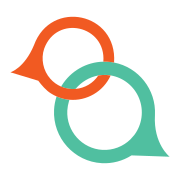
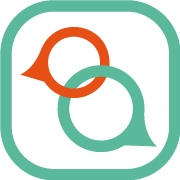
Add info.html and it's assets Adjust CSS to it Add info translation in cc.js Remake manifest thumbnails

diff --git a/info.html b/info.html
@@ -1,0 +1,136 @@
+<!DOCTYPE html>
+<html lang="en">
+
+<head>
+	<meta charset="UTF-8">
+	<meta http-equiv="X-UA-Compatible" content="IE=edge">
+	<meta name="viewport" content="width=device-width, initial-scale=1.0">
+	<title>Crossover Info</title>
+	<link rel="stylesheet" href="layouts.css">
+</head>
+
+<body>
+
+	<svg style="display: none;" fill="none" xmlns="http://www.w3.org/2000/svg">
+		<symbol id='back' viewBox="0 0 43 35" ">
+		<path d=" M41.231 15.2558C39.9582 5.95148 31.3562 -0.54397 22.0958 0.728787C18.5408 1.21156 15.337 2.79153 12.7915 5.16149L0.107788 7.09257C0.107788 7.09257 6.33991 10.2964 7.56878 19.864C8.75376 28.3783 16.0392 34.5666 24.3779 34.5666C25.1679 34.5666 25.914 34.5227 26.704 34.391C27.1429 34.3471 27.5379 34.2593 27.9768 34.1716C33.7261 32.9427 38.2027 28.9489 40.2216 23.7262C40.2655 23.5945 40.3093 23.4629 40.3532 23.2873C40.7043 22.1462 41.0116 21.049 41.231 19.9957C41.231 19.9079 41.231 19.864 41.2749 19.7762C41.4504 18.3279 41.4504 16.7919 41.231 15.2558Z" fill="#D1D3D4" />
+		<path d="M31.4001 20.6538C27.7574 17.8889 24.4657 16.3967 21.1302 15.6945" stroke="#E65014" stroke-width="4.51311" stroke-miterlimit="9.978" />
+		<path d="M23.5001 7.66296L20.2963 23.8138L13.8447 14.0706L23.5001 7.66296Z" fill="#E65014" />
+		</symbol>
+		<symbol id="cclogo" viewBox="0 0 98 58">
+			<g clip-path="url(#clip0_690_2309)">
+				<path d="M12.1129 39.373C12.1772 39.3042 12.2554 39.25 12.3422 39.214C12.4289 39.1781 12.5223 39.1614 12.616 39.1648H13.9189C14 39.1706 14.0814 39.1588 14.1576 39.1301C14.2337 39.1014 14.3029 39.0565 14.3604 38.9986C14.4179 38.9406 14.4623 38.8708 14.4908 38.7939C14.5192 38.7171 14.531 38.635 14.5252 38.5532C14.5252 38.2018 14.2156 37.9806 13.7512 37.9806L12.616 37.9415C12.3642 37.9351 12.1137 37.9815 11.8805 38.0778C11.6474 38.1742 11.4366 38.3183 11.2615 38.5011C11.0798 38.678 10.9358 38.8904 10.8382 39.1254C10.7406 39.3603 10.6915 39.6128 10.694 39.8676V43.16C10.6915 43.4148 10.7406 43.6673 10.8382 43.9022C10.9358 44.1372 11.0798 44.3496 11.2615 44.5265C11.4359 44.711 11.6463 44.8572 11.8794 44.9557C12.1125 45.0543 12.3633 45.1031 12.616 45.0991H13.9189C14.293 45.0991 14.5252 44.8648 14.5252 44.4744C14.531 44.3926 14.5192 44.3105 14.4908 44.2337C14.4623 44.1568 14.4179 44.087 14.3604 44.0291C14.3029 43.9711 14.2337 43.9262 14.1576 43.8975C14.0814 43.8688 14 43.857 13.9189 43.8628H12.616C12.5223 43.8663 12.4289 43.8495 12.3422 43.8136C12.2554 43.7776 12.1772 43.7234 12.1129 43.6546C12.0475 43.5902 11.9956 43.5133 11.9601 43.4284C11.9247 43.3434 11.9064 43.2522 11.9065 43.16V39.8676C11.9064 39.7754 11.9247 39.6842 11.9601 39.5992C11.9956 39.5143 12.0475 39.4374 12.1129 39.373Z" fill="#939598" />
+				<path d="M19.2465 37.9415C19.1654 37.9357 19.0841 37.9476 19.0079 37.9763C18.9317 38.005 18.8626 38.0498 18.8051 38.1078C18.7476 38.1658 18.7031 38.2356 18.6747 38.3124C18.6462 38.3893 18.6345 38.4714 18.6403 38.5532V42.8347C18.6422 42.9701 18.6169 43.1045 18.5659 43.2297C18.5149 43.355 18.4393 43.4685 18.3436 43.5635C18.2489 43.6629 18.1344 43.741 18.0077 43.7926C17.881 43.8442 17.7448 43.8681 17.6083 43.8628C17.338 43.8628 17.0788 43.7545 16.8877 43.5616C16.6965 43.3688 16.5892 43.1074 16.5892 42.8347V38.5532C16.5949 38.4714 16.5832 38.3893 16.5547 38.3124C16.5263 38.2356 16.4818 38.1658 16.4244 38.1078C16.3669 38.0498 16.2977 38.005 16.2215 37.9763C16.1454 37.9476 16.064 37.9357 15.9829 37.9415C15.9008 37.9338 15.8179 37.9441 15.7402 37.9719C15.6624 37.9997 15.5916 38.0443 15.5327 38.1025C15.4737 38.1607 15.4281 38.2312 15.3989 38.309C15.3697 38.3869 15.3577 38.4702 15.3637 38.5532V42.8347C15.3639 43.2824 15.4956 43.72 15.7423 44.0922C15.9889 44.4644 16.3394 44.7545 16.7494 44.9258C17.1595 45.0971 17.6106 45.142 18.0459 45.0547C18.4812 44.9674 18.881 44.7519 19.1949 44.4354C19.4069 44.2279 19.5747 43.9789 19.6878 43.7036C19.8009 43.4283 19.8571 43.1326 19.8528 42.8347V38.5532C19.8586 38.4714 19.8468 38.3893 19.8184 38.3124C19.79 38.2356 19.7455 38.1658 19.688 38.1078C19.6305 38.0498 19.5614 38.005 19.4852 37.9763C19.409 37.9476 19.3276 37.9357 19.2465 37.9415Z" fill="#939598" />
+				<path d="M23.9163 43.8628H21.9168V38.5532C21.9168 38.1758 21.6846 37.9415 21.2976 37.9415C21.2165 37.9357 21.1351 37.9476 21.059 37.9763C20.9828 38.0049 20.9136 38.0498 20.8561 38.1078C20.7987 38.1658 20.7542 38.2356 20.7257 38.3124C20.6973 38.3893 20.6856 38.4714 20.6913 38.5532V44.4744C20.6913 44.8648 20.9235 45.0991 21.2976 45.0991H23.9163C24.2904 45.0991 24.5226 44.8648 24.5226 44.4744C24.5283 44.3926 24.5166 44.3105 24.4881 44.2336C24.4597 44.1568 24.4152 44.087 24.3577 44.029C24.3002 43.971 24.2311 43.9262 24.1549 43.8975C24.0788 43.8688 23.9974 43.857 23.9163 43.8628Z" fill="#939598" />
+				<path d="M28.4312 37.9415H25.1676C25.0068 37.9415 24.8525 38.006 24.7388 38.1207C24.6251 38.2354 24.5613 38.391 24.5613 38.5532C24.5613 38.7154 24.6251 38.871 24.7388 38.9857C24.8525 39.1004 25.0068 39.1648 25.1676 39.1648H26.1866V44.4744C26.1787 44.5584 26.1892 44.6432 26.2175 44.7227C26.2458 44.8021 26.2911 44.8743 26.3503 44.934C26.4095 44.9937 26.481 45.0394 26.5597 45.068C26.6385 45.0965 26.7225 45.1071 26.8058 45.0991C27.1799 45.0991 27.4121 44.8648 27.4121 44.4744V39.1648H28.4312C28.592 39.1648 28.7462 39.1004 28.8599 38.9857C28.9736 38.871 29.0375 38.7154 29.0375 38.5532C29.0375 38.391 28.9736 38.2354 28.8599 38.1207C28.7462 38.006 28.592 37.9415 28.4312 37.9415Z" fill="#939598" />
+				<path d="M33.7589 37.9415C33.6778 37.9357 33.5964 37.9476 33.5202 37.9763C33.4441 38.0049 33.3749 38.0498 33.3174 38.1078C33.2599 38.1658 33.2154 38.2356 33.187 38.3124C33.1586 38.3893 33.1468 38.4714 33.1526 38.5532V42.8347C33.1545 42.9701 33.1292 43.1045 33.0782 43.2297C33.0272 43.355 32.9516 43.4685 32.8559 43.5634C32.7612 43.6629 32.6468 43.741 32.52 43.7926C32.3933 43.8442 32.2572 43.8681 32.1206 43.8628C31.986 43.8679 31.8518 43.8438 31.7272 43.7922C31.6026 43.7406 31.4904 43.6626 31.3982 43.5634C31.3025 43.4685 31.2269 43.355 31.1759 43.2297C31.1249 43.1045 31.0996 42.9701 31.1015 42.8347V38.5532C31.1015 38.3909 31.0376 38.2354 30.9239 38.1207C30.8102 38.006 30.656 37.9415 30.4952 37.9415C30.3344 37.9415 30.1802 38.006 30.0665 38.1207C29.9528 38.2354 29.8889 38.3909 29.8889 38.5532V42.8347C29.8847 43.1326 29.9408 43.4283 30.054 43.7036C30.1671 43.9788 30.3348 44.2279 30.5468 44.4354C30.7541 44.6451 31.0004 44.8115 31.2716 44.925C31.5427 45.0386 31.8334 45.097 32.127 45.097C32.4206 45.097 32.7113 45.0386 32.9825 44.925C33.2537 44.8115 33.5 44.6451 33.7073 44.4354C33.9193 44.2279 34.087 43.9788 34.2001 43.7036C34.3133 43.4283 34.3694 43.1326 34.3652 42.8347V38.5532C34.3709 38.4714 34.3592 38.3893 34.3307 38.3124C34.3023 38.2356 34.2578 38.1658 34.2003 38.1078C34.1429 38.0498 34.0737 38.0049 33.9975 37.9763C33.9214 37.9476 33.84 37.9357 33.7589 37.9415Z" fill="#939598" />
+				<path d="M39.6928 40.1929C39.6945 39.8957 39.6375 39.601 39.5252 39.3263C39.4128 39.0515 39.2474 38.802 39.0384 38.5924C38.8295 38.3828 38.5812 38.2173 38.3082 38.1056C38.0352 37.9938 37.7428 37.9381 37.4482 37.9415H35.8228C35.7417 37.9357 35.6603 37.9476 35.5842 37.9763C35.508 38.0049 35.4388 38.0498 35.3813 38.1078C35.3239 38.1658 35.2794 38.2356 35.251 38.3124C35.2225 38.3893 35.2108 38.4714 35.2165 38.5532V44.4744C35.2165 44.8648 35.4487 45.0991 35.8228 45.0991C36.1969 45.0991 36.4291 44.8648 36.4291 44.4744V42.4573H37.3966L38.5318 44.7477C38.5733 44.8369 38.6356 44.9146 38.7134 44.9742C38.7911 45.0339 38.882 45.0737 38.9782 45.0903C39.0745 45.1069 39.1733 45.0998 39.2663 45.0696C39.3593 45.0394 39.4436 44.987 39.5122 44.9169C39.627 44.7986 39.6918 44.64 39.6928 44.4744C39.6897 44.3799 39.6678 44.2869 39.6283 44.2011L38.6092 42.171C39.3187 41.7806 39.6928 41.1039 39.6928 40.1929ZM38.4802 40.1929C38.4819 40.3301 38.4564 40.4663 38.4052 40.5934C38.3539 40.7205 38.278 40.8359 38.1818 40.933C38.0856 41.03 37.9712 41.1066 37.8452 41.1583C37.7192 41.21 37.5842 41.2357 37.4482 41.234H36.4291V39.1648H37.4482C37.5848 39.1595 37.7209 39.1834 37.8476 39.235C37.9744 39.2866 38.0888 39.3647 38.1835 39.4641C38.2792 39.5591 38.3548 39.6726 38.4058 39.7979C38.4568 39.9231 38.4821 40.0575 38.4802 40.1929Z" fill="#939598" />
+				<path d="M43.7562 43.8628H41.7567V41.7936H43.1112C43.272 41.7936 43.4262 41.7291 43.5399 41.6144C43.6536 41.4997 43.7175 41.3442 43.7175 41.1819C43.7175 41.0197 43.6536 40.8641 43.5399 40.7494C43.4262 40.6347 43.272 40.5703 43.1112 40.5703H41.7567V39.1648H43.7562C43.917 39.1648 44.0712 39.1004 44.1849 38.9857C44.2986 38.871 44.3625 38.7154 44.3625 38.5532C44.3625 38.3909 44.2986 38.2354 44.1849 38.1207C44.0712 38.006 43.917 37.9415 43.7562 37.9415H41.1504C41.0693 37.9357 40.988 37.9476 40.9118 37.9763C40.8356 38.0049 40.7665 38.0498 40.709 38.1078C40.6515 38.1658 40.607 38.2356 40.5786 38.3124C40.5501 38.3893 40.5384 38.4714 40.5441 38.5532V44.4744C40.5441 44.8648 40.7763 45.0991 41.1504 45.0991H43.7562C44.1303 45.0991 44.3625 44.8648 44.3625 44.4744C44.3682 44.3926 44.3565 44.3105 44.3281 44.2336C44.2996 44.1568 44.2552 44.087 44.1977 44.029C44.1402 43.971 44.071 43.9262 43.9949 43.8975C43.9187 43.8688 43.8373 43.857 43.7562 43.8628Z" fill="#939598" />
+				<path d="M1.50928 51.684C1.5783 51.6133 1.66066 51.5573 1.75151 51.5193C1.84236 51.4813 1.93983 51.4621 2.03818 51.4628H3.43136C3.60242 51.4628 3.76648 51.3942 3.88744 51.2722C4.0084 51.1501 4.07635 50.9846 4.07635 50.8121C4.07635 50.6395 4.0084 50.474 3.88744 50.352C3.76648 50.2299 3.60242 50.1614 3.43136 50.1614H2.03818C1.76955 50.156 1.50269 50.2063 1.25415 50.3093C1.00562 50.4123 0.780713 50.5657 0.593397 50.76C0.403194 50.9508 0.252718 51.178 0.150815 51.4283C0.0489111 51.6786 -0.00236354 51.947 4.90942e-06 52.2176V55.7182C-0.00383511 55.989 0.0467669 56.2578 0.148755 56.5083C0.250744 56.7588 0.402002 56.9859 0.593397 57.1758C0.780713 57.3701 1.00562 57.5235 1.25415 57.6265C1.50269 57.7295 1.76955 57.7798 2.03818 57.7744H3.43136C3.60242 57.7744 3.76648 57.7058 3.88744 57.5838C4.0084 57.4618 4.07635 57.2963 4.07635 57.1237C4.07635 56.9511 4.0084 56.7856 3.88744 56.6636C3.76648 56.5416 3.60242 56.473 3.43136 56.473H2.03818C1.93951 56.4761 1.84134 56.4579 1.75016 56.4198C1.65898 56.3816 1.57687 56.3244 1.50928 56.2518C1.43799 56.1831 1.38167 56.1002 1.34392 56.0083C1.30616 55.9165 1.28779 55.8177 1.28999 55.7182V52.2176C1.28931 52.1183 1.30837 52.02 1.34604 51.9284C1.38371 51.8367 1.43922 51.7536 1.50928 51.684Z" fill="#F15A22" />
+				<path d="M10.4489 52.5689C10.4506 52.2523 10.39 51.9384 10.2707 51.6456C10.1514 51.3527 9.97566 51.0866 9.75371 50.8627C9.53176 50.6388 9.268 50.4615 8.97769 50.3411C8.68738 50.2208 8.37628 50.1597 8.06241 50.1614H6.32093C6.23424 50.1534 6.14688 50.1647 6.06502 50.1946C5.98316 50.2245 5.90882 50.2721 5.84727 50.3342C5.78572 50.3963 5.73846 50.4713 5.70885 50.5539C5.67924 50.6365 5.66801 50.7246 5.67594 50.8121V57.1237C5.66801 57.2112 5.67924 57.2993 5.70885 57.3819C5.73846 57.4645 5.78572 57.5395 5.84727 57.6015C5.90882 57.6636 5.98316 57.7113 6.06502 57.7412C6.14688 57.7711 6.23424 57.7824 6.32093 57.7744C6.72082 57.7744 6.97882 57.5271 6.97882 57.1237V54.9765H8.01081L9.21049 57.41C9.26332 57.5226 9.34767 57.6171 9.45312 57.6818C9.55857 57.7466 9.68051 57.7788 9.80388 57.7744C9.97167 57.7728 10.1328 57.7078 10.2554 57.5922C10.3177 57.5316 10.367 57.4588 10.4003 57.3782C10.4336 57.2976 10.4501 57.211 10.4489 57.1237C10.4473 57.0232 10.4207 56.9248 10.3715 56.8374L9.30079 54.6641C10.0619 54.2477 10.4489 53.545 10.4489 52.5689ZM9.15889 52.5689C9.16311 52.7147 9.13654 52.8597 9.08094 52.9943C9.02533 53.129 8.94198 53.2501 8.8364 53.3497C8.73554 53.4526 8.61477 53.5334 8.48161 53.5871C8.34846 53.6409 8.20576 53.6664 8.06241 53.6621H6.97882V51.4628H8.06241C8.2064 51.4628 8.34898 51.4914 8.48201 51.547C8.61505 51.6026 8.73592 51.684 8.83774 51.7868C8.93956 51.8895 9.02032 52.0114 9.07543 52.1456C9.13053 52.2798 9.15889 52.4237 9.15889 52.5689Z" fill="#F15A22" />
+				<path d="M14.4349 50.1614C14.121 50.1597 13.8099 50.2208 13.5196 50.3411C13.2293 50.4615 12.9656 50.6388 12.7436 50.8627C12.5217 51.0866 12.3459 51.3527 12.2266 51.6456C12.1073 51.9384 12.0467 52.2523 12.0484 52.5689V55.3669C12.0475 55.8437 12.1869 56.3102 12.4491 56.707C12.7113 57.1038 13.0843 57.4131 13.521 57.5957C13.9577 57.7783 14.4382 57.826 14.9018 57.7327C15.3654 57.6394 15.791 57.4094 16.1248 57.0717C16.3498 56.8503 16.5276 56.5849 16.6474 56.2918C16.7672 55.9986 16.8264 55.6839 16.8214 55.3669V52.5689C16.8231 52.2523 16.7625 51.9384 16.6432 51.6456C16.5239 51.3527 16.3482 51.0866 16.1262 50.8627C15.9043 50.6388 15.6405 50.4615 15.3502 50.3411C15.0599 50.2208 14.7488 50.1597 14.4349 50.1614ZM14.4349 56.473C14.2916 56.4774 14.1489 56.4519 14.0157 56.3981C13.8825 56.3444 13.7618 56.2636 13.6609 56.1607C13.5598 56.0557 13.4804 55.9314 13.4272 55.7951C13.3741 55.6588 13.3483 55.5133 13.3513 55.3669V52.5689C13.3471 52.4243 13.3723 52.2804 13.4256 52.146C13.4789 52.0117 13.559 51.8899 13.6609 51.7881C13.8143 51.634 14.0094 51.529 14.2217 51.4866C14.4341 51.4441 14.6541 51.466 14.8542 51.5495C15.0542 51.633 15.2252 51.7744 15.3458 51.9558C15.4663 52.1372 15.5309 52.3505 15.5314 52.5689V55.3669C15.535 55.5145 15.5082 55.6613 15.4527 55.7979C15.3972 55.9346 15.3142 56.0581 15.2089 56.1607C15.108 56.2636 14.9873 56.3444 14.8541 56.3981C14.721 56.4519 14.5783 56.4774 14.4349 56.473Z" fill="#F15A22" />
+				<path d="M22.0845 53.8963L20.1237 52.8813C19.9964 52.827 19.8893 52.7337 19.8175 52.6146C19.7457 52.4954 19.713 52.3565 19.7238 52.2176C19.7207 52.1192 19.7374 52.0212 19.7729 51.9295C19.8084 51.8378 19.8619 51.7543 19.9302 51.684C20.0705 51.5424 20.2607 51.4628 20.4591 51.4628C20.9679 51.4677 21.4711 51.5692 21.9426 51.7621C22.0246 51.7958 22.1121 51.8135 22.2006 51.8141C22.2842 51.8161 22.3672 51.8009 22.4448 51.7696C22.5224 51.7383 22.5929 51.6915 22.6521 51.6319C22.7144 51.5714 22.7638 51.4985 22.7971 51.418C22.8303 51.3374 22.8469 51.2507 22.8456 51.1634C22.8417 51.044 22.8077 50.9276 22.7467 50.8251C22.6858 50.7226 22.5999 50.6375 22.4973 50.5778C22.0071 50.3045 21.3492 50.1614 20.4591 50.1614C20.1924 50.1554 19.9273 50.2056 19.6807 50.3086C19.4342 50.4117 19.2117 50.5654 19.0273 50.76C18.8335 50.9488 18.6799 51.1754 18.5757 51.4259C18.4714 51.6765 18.4188 51.9458 18.421 52.2176C18.4051 52.5982 18.5021 52.9749 18.6998 53.2995C18.8974 53.6241 19.1866 53.8817 19.5304 54.0395L21.4911 55.0545C21.6197 55.1083 21.7285 55.2011 21.8024 55.32C21.8764 55.4389 21.9119 55.5781 21.9039 55.7182C21.9061 55.8177 21.8877 55.9165 21.85 56.0083C21.8122 56.1002 21.7559 56.1831 21.6846 56.2518C21.617 56.3244 21.5349 56.3816 21.4437 56.4198C21.3526 56.4579 21.2544 56.4761 21.1557 56.473C20.8846 56.4782 20.6144 56.4386 20.3559 56.3559C20.0327 56.2148 19.7182 56.054 19.4143 55.8744C19.0918 55.6922 18.808 55.7573 18.6145 55.9655C18.5525 56.0236 18.5033 56.0941 18.4699 56.1726C18.4366 56.251 18.4199 56.3356 18.421 56.421C18.4204 56.5253 18.4447 56.6282 18.4919 56.7211C18.539 56.814 18.6076 56.894 18.6919 56.9545C19.4005 57.4956 20.2671 57.784 21.1557 57.7744C21.4243 57.779 21.6909 57.7283 21.9393 57.6254C22.1877 57.5225 22.4127 57.3695 22.6005 57.1758C22.7931 56.9868 22.9452 56.7599 23.0473 56.5092C23.1493 56.2585 23.1993 55.9892 23.1939 55.7182C23.2081 55.338 23.1103 54.962 22.9128 54.6377C22.7154 54.3135 22.4272 54.0555 22.0845 53.8963Z" fill="#F15A22" />
+				<path d="M28.457 53.8963L26.4963 52.8813C26.369 52.827 26.2618 52.7337 26.19 52.6146C26.1183 52.4954 26.0855 52.3565 26.0964 52.2176C26.0933 52.1192 26.11 52.0212 26.1454 51.9295C26.1809 51.8378 26.2344 51.7543 26.3028 51.684C26.443 51.5424 26.6333 51.4628 26.8317 51.4628C27.3404 51.4677 27.8437 51.5692 28.3151 51.7621C28.3971 51.7958 28.4846 51.8135 28.5731 51.8141C28.7432 51.8108 28.9053 51.7412 29.0256 51.6199C29.1458 51.4986 29.2148 51.335 29.2181 51.1634C29.2168 51.0434 29.1838 50.926 29.1226 50.8231C29.0614 50.7202 28.9742 50.6355 28.8698 50.5778C28.3796 50.3045 27.7218 50.1614 26.8317 50.1614C26.5651 50.157 26.3005 50.2079 26.0542 50.3108C25.8079 50.4138 25.5851 50.5667 25.3998 50.76C25.2061 50.9488 25.0524 51.1754 24.9482 51.4259C24.844 51.6765 24.7913 51.9458 24.7935 52.2176C24.7776 52.5982 24.8747 52.9749 25.0723 53.2995C25.27 53.6241 25.5592 53.8817 25.9029 54.0395L27.8637 55.0545C27.9922 55.1083 28.101 55.2011 28.175 55.32C28.2489 55.4389 28.2844 55.5781 28.2764 55.7182C28.2812 55.818 28.264 55.9176 28.2261 56.0098C28.1881 56.1021 28.1305 56.1847 28.0572 56.2518C27.9901 56.325 27.9081 56.3828 27.8168 56.421C27.7255 56.4591 27.627 56.4769 27.5283 56.473C27.2571 56.4782 26.987 56.4386 26.7285 56.3559C26.4052 56.2148 26.0907 56.054 25.7868 55.8744C25.6646 55.7909 25.5168 55.7543 25.3702 55.771C25.2236 55.7877 25.0877 55.8567 24.987 55.9655C24.9262 56.0245 24.8778 56.0953 24.8446 56.1735C24.8114 56.2517 24.794 56.3359 24.7935 56.421C24.7929 56.5253 24.8173 56.6282 24.8644 56.7211C24.9116 56.814 24.9801 56.894 25.0644 56.9545C25.773 57.4956 26.6396 57.784 27.5283 57.7744C27.7968 57.779 28.0634 57.7283 28.3118 57.6254C28.5603 57.5225 28.7853 57.3695 28.973 57.1758C29.1657 56.9868 29.3177 56.7599 29.4198 56.5092C29.5219 56.2585 29.5718 55.9892 29.5664 55.7182C29.5806 55.338 29.4828 54.962 29.2854 54.6377C29.0879 54.3135 28.7997 54.0555 28.457 53.8963Z" fill="#F15A22" />
+				<path d="M33.5525 50.1614C33.2402 50.1566 32.9302 50.2165 32.6417 50.3373C32.3533 50.4582 32.0925 50.6375 31.8755 50.8641C31.6488 51.0849 31.4689 51.3498 31.347 51.6429C31.225 51.936 31.1634 52.2511 31.166 52.5689V55.3669C31.1634 55.6847 31.225 55.9998 31.347 56.2929C31.4689 56.586 31.6488 56.8509 31.8755 57.0717C32.0925 57.2983 32.3533 57.4776 32.6417 57.5984C32.9302 57.7193 33.2402 57.7792 33.5525 57.7744C33.8663 57.7761 34.1774 57.715 34.4677 57.5947C34.7581 57.4743 35.0218 57.297 35.2438 57.0731C35.4657 56.8492 35.6414 56.5831 35.7607 56.2902C35.8801 55.9974 35.9406 55.6835 35.9389 55.3669V52.5689C35.9406 52.2523 35.8801 51.9384 35.7607 51.6456C35.6414 51.3527 35.4657 51.0866 35.2438 50.8627C35.0218 50.6388 34.7581 50.4615 34.4677 50.3411C34.1774 50.2208 33.8663 50.1597 33.5525 50.1614ZM33.5525 56.473C33.4081 56.4767 33.2645 56.4505 33.1305 56.396C32.9966 56.3415 32.8751 56.26 32.7736 56.1563C32.672 56.0527 32.5926 55.9292 32.5402 55.7934C32.4878 55.6576 32.4636 55.5125 32.4689 55.3669V52.5689C32.4646 52.4243 32.4899 52.2803 32.5431 52.146C32.5964 52.0117 32.6765 51.8898 32.7785 51.7881C32.8777 51.6822 32.9979 51.5986 33.1312 51.5426C33.2646 51.4865 33.4081 51.4593 33.5525 51.4628C33.8433 51.4628 34.1222 51.5793 34.3278 51.7867C34.5334 51.9942 34.6489 52.2755 34.6489 52.5689V55.3669C34.6526 55.5145 34.6258 55.6613 34.5703 55.7979C34.5147 55.9346 34.4317 56.0581 34.3265 56.1607C34.2256 56.2636 34.1048 56.3444 33.9717 56.3981C33.8385 56.4518 33.6958 56.4773 33.5525 56.473Z" fill="#50BFA0" />
+				<path d="M42.363 50.1614C42.2258 50.1554 42.0905 50.1956 41.9784 50.2757C41.8663 50.3558 41.7838 50.4713 41.7439 50.6039L40.2733 55.0545L38.8027 50.6039C38.7674 50.4711 38.6878 50.3546 38.5774 50.2741C38.467 50.1935 38.3325 50.1537 38.1964 50.1614C37.7965 50.1614 37.5385 50.4087 37.5385 50.8121C37.5375 50.8834 37.5506 50.9542 37.5772 51.0203L39.6541 57.3059C39.6892 57.4433 39.7696 57.5646 39.8822 57.6498C39.9947 57.7349 40.1327 57.7789 40.2733 57.7744C40.415 57.7773 40.5538 57.7329 40.668 57.6482C40.7823 57.5635 40.8657 57.4432 40.9054 57.3059L42.9822 51.0203C42.9979 50.952 43.0066 50.8822 43.008 50.8121C43.016 50.7246 43.0047 50.6365 42.9751 50.5539C42.9455 50.4713 42.8983 50.3963 42.8367 50.3342C42.7752 50.2721 42.7008 50.2245 42.619 50.1946C42.5371 50.1647 42.4497 50.1534 42.363 50.1614Z" fill="#50BFA0" />
+				<path d="M48.039 51.4628C48.21 51.4628 48.3741 51.3942 48.4951 51.2722C48.616 51.1502 48.684 50.9846 48.684 50.8121C48.684 50.6395 48.616 50.474 48.4951 50.352C48.3741 50.2299 48.21 50.1614 48.039 50.1614H45.2655C44.8656 50.1614 44.6076 50.4087 44.6076 50.8121V57.1237C44.6076 57.5271 44.8656 57.7744 45.2655 57.7744H48.039C48.21 57.7744 48.3741 57.7059 48.4951 57.5838C48.616 57.4618 48.684 57.2963 48.684 57.1237C48.684 56.9511 48.616 56.7856 48.4951 56.6636C48.3741 56.5416 48.21 56.473 48.039 56.473H45.9105V54.2737H47.3424C47.4291 54.2817 47.5164 54.2704 47.5983 54.2405C47.6802 54.2106 47.7545 54.163 47.816 54.1009C47.8776 54.0388 47.9249 53.9638 47.9545 53.8812C47.9841 53.7986 47.9953 53.7105 47.9874 53.623C47.9874 53.2196 47.7423 52.9593 47.3424 52.9593H45.9105V51.4628H48.039Z" fill="#50BFA0" />
+				<path d="M53.9084 54.6641C54.6695 54.2477 55.0565 53.5319 55.0565 52.5689C55.0615 52.2519 55.0023 51.9372 54.8825 51.644C54.7627 51.3509 54.5849 51.0855 54.3599 50.8641C54.1419 50.6353 53.8791 50.4546 53.5881 50.3336C53.2972 50.2126 52.9846 50.154 52.67 50.1614H50.9414C50.5415 50.1614 50.2835 50.4086 50.2835 50.8121V57.1237C50.2835 57.5271 50.5415 57.7744 50.9414 57.7744C51.0281 57.7824 51.1155 57.7711 51.1973 57.7412C51.2792 57.7113 51.3535 57.6637 51.4151 57.6016C51.4766 57.5395 51.5239 57.4645 51.5535 57.3819C51.5831 57.2993 51.5944 57.2112 51.5864 57.1237V54.9765H52.6184L53.831 57.41C53.8755 57.503 53.9413 57.584 54.023 57.6463C54.1046 57.7085 54.1998 57.7503 54.3007 57.7681C54.4015 57.7859 54.5051 57.7792 54.6029 57.7487C54.7007 57.7181 54.7898 57.6644 54.863 57.5922C54.9253 57.5316 54.9746 57.4588 55.0079 57.3782C55.0412 57.2976 55.0577 57.211 55.0565 57.1237C55.06 57.0243 55.0378 56.9256 54.992 56.8374L53.9084 54.6641ZM53.7665 52.5689C53.7708 52.7135 53.7455 52.8575 53.6922 52.9918C53.639 53.1262 53.5589 53.248 53.4569 53.3497C53.3528 53.4518 53.2296 53.5319 53.0945 53.5855C52.9594 53.6391 52.8151 53.6651 52.67 53.6621H51.5864V51.4628H52.67C52.8163 51.4591 52.9618 51.4861 53.0973 51.5421C53.2327 51.5981 53.3552 51.6819 53.4569 51.7881C53.5589 51.8898 53.639 52.0117 53.6922 52.146C53.7455 52.2804 53.7708 52.4243 53.7665 52.5689Z" fill="#50BFA0" />
+				<path d="M70.4847 23.5093H70.4976C71.865 21.4922 72.2003 19.8135 72.4196 18.1867V18.1607C69.2003 18.2314 66.0492 19.1109 63.2517 20.7197C60.4541 22.3285 58.0985 24.6158 56.398 27.3744L56.14 27.8169C57.8899 28.5642 59.7932 28.8723 61.687 28.7148L61.7386 28.6498C63.9702 26.008 67.0275 24.121 70.4847 23.5093Z" fill="#50BFA0" />
+				<path d="M92.3499 38.8395C92.8659 28.923 85.9773 20.321 76.5734 18.4991C76.5734 18.5121 76.5734 18.5121 76.5605 18.5251C76.367 20.5032 76.1735 21.323 75.2705 23.4833H75.2576C77.6998 23.893 79.9958 24.9317 81.9234 26.4989C83.8511 28.0661 85.3451 30.1087 86.261 32.429C87.1769 34.7494 87.4835 37.269 87.1514 39.7439C86.8192 42.2189 85.8594 44.5655 84.3649 46.5566L82.8685 48.2484C81.4501 49.6299 79.7657 50.7031 77.9196 51.4015C76.0735 52.0999 74.105 52.4087 72.1358 52.3087C64.2153 51.8792 58.1008 45.047 58.5265 37.0566C58.6068 35.8301 58.8232 34.6166 59.1715 33.4388C59.2102 33.2956 59.2747 33.1135 59.3521 32.8922H59.1973C57.537 32.7244 55.9133 32.294 54.3857 31.6169C53.8364 33.2878 53.511 35.0254 53.4182 36.7833C52.8635 47.6107 61.1323 56.8765 71.8649 57.4491C75.8971 57.6651 79.8961 56.6099 83.3071 54.4299L98 54.9504C98 54.9504 91.692 49.9792 92.3499 38.8395Z" fill="#50BFA0" />
+				<path d="M70.4847 23.5093C69.5028 24.9866 68.2027 26.221 66.6815 27.1201C65.1603 28.0193 63.4573 28.56 61.6999 28.7018C60.8098 29.795 59.8036 31.747 59.3521 32.8922C65.9568 33.4778 72.4712 29.7299 75.2576 23.4963C74.7287 23.4052 74.1869 23.3532 73.6451 23.3141C72.5877 23.2603 71.5277 23.3257 70.4847 23.5093Z" fill="#F15A22" />
+				<path d="M56.153 27.8039C54.5566 27.1266 53.1323 26.0946 51.9863 24.7847C49.2258 21.7004 48.2454 17.0806 49.6127 13.1114C54.4631 -0.188601 73.5419 4.17099 72.4326 18.1477C72.9227 18.1477 73.4129 18.1477 73.916 18.1737C74.808 18.2228 75.6957 18.3315 76.5734 18.4991C77.9021 -0.852301 52.2185 -6.21394 45.6654 11.771C41.9373 20.7374 36.571 22.273 36.571 22.273L47.3295 25.5395C48.5808 27.2443 50.3867 29.3395 52.2056 30.4456C52.9028 30.8896 53.6314 31.2811 54.3857 31.6169L54.4631 31.3826C54.9626 30.1601 55.5267 28.9655 56.153 27.8039Z" fill="#F15A22" />
+				<path d="M59.3521 32.8922C59.8036 31.747 60.8098 29.795 61.6999 28.7018C59.8061 28.8593 57.9028 28.5512 56.153 27.8039C55.5267 28.9655 54.9626 30.1601 54.4631 31.3826L54.3857 31.6169C55.9133 32.294 57.5371 32.7244 59.1973 32.8922H59.3521Z" fill="#F15A22" />
+				<path d="M72.4325 18.1477V18.1737C72.2132 19.8004 71.8778 21.4792 70.5105 23.4963H70.4976C71.5406 23.3127 72.6006 23.2472 73.658 23.3011C74.1998 23.3402 74.7416 23.3922 75.2705 23.4833H75.2834C76.1864 21.323 76.3799 20.5032 76.5734 18.5251C76.5863 18.5121 76.5863 18.5121 76.5863 18.4991C75.7086 18.3315 74.8209 18.2228 73.9289 18.1737C73.4129 18.1477 72.9227 18.1477 72.4325 18.1477Z" fill="#50BFA0" />
+			</g>
+			<defs>
+				<clipPath id="clip0_690_2309">
+					<rect width="98" height="57" fill="white" transform="translate(0 0.774414)" />
+				</clipPath>
+			</defs>
+		</symbol>
+	</svg>
+
+	<top-box class='center'>
+		<svg class='svg-icon back' data-event="back" fill="none" xmlns="http://www.w3.org/2000/svg" transform="scale(1), translate(0 10)">
+			<use href="#back" />
+		</svg>
+		<svg class='cclogo' fill="none" xmlns="http://www.w3.org/2000/svg" transform="scale(1), translate(0 5)">
+			<use href="#cclogo" />
+		</svg>
+	</top-box>
+
+	<country-box class='center'>
+		<div class="info">
+			<svg class='svg-icon' style="width:auto; height:110px; margin-top:3rem;" viewBox="0 0 50 50" fill="none" xmlns="http://www.w3.org/2000/svg">
+				<path d="M21.4143 6.13147L21.4139 6.13149C9.98342 6.7418 1.15002 16.6256 1.74198 28.2014C1.84127 30.0802 2.18879 31.9371 2.77522 33.7226C3.27424 35.2419 4.98288 39.4302 8.67284 42.8818C12.2974 46.2722 17.9048 49.0282 26.4601 47.7218C36.4622 45.7677 43.8046 36.5958 43.2564 26.0091C42.8632 19.3255 44.5587 14.4337 46.397 11.1902C46.8448 10.4001 47.2998 9.70987 47.7331 9.1169L34.4688 9.5872L34.0014 9.60377L33.6074 9.35177C29.9712 7.02601 25.7099 5.90115 21.4143 6.13147Z" fill="white" stroke="#C8C8C8" stroke-width="3" />
+				<path d="M21.213 30.1921C21.213 29.4221 21.312 28.7731 21.51 28.2451C21.73 27.6951 22.005 27.2221 22.335 26.8261C22.665 26.4081 23.006 26.0341 23.358 25.7041C23.732 25.3521 24.084 25.0111 24.414 24.6811C24.744 24.3291 25.008 23.9331 25.206 23.4931C25.426 23.0531 25.536 22.5471 25.536 21.9751C25.536 21.5131 25.459 21.1281 25.305 20.8201C25.151 20.4901 24.931 20.2261 24.645 20.0281C24.381 19.8081 24.062 19.6541 23.688 19.5661C23.336 19.4561 22.962 19.4011 22.566 19.4011C21.972 19.4011 21.411 19.5001 20.883 19.6981C20.377 19.8961 19.904 20.1931 19.464 20.5891C19.244 20.8751 19.09 21.0951 19.002 21.2491C18.936 21.3811 18.914 21.5351 18.936 21.7111L18.738 21.9751L18.507 21.7771L16.197 20.0611C16.703 19.3131 17.264 18.6751 17.88 18.1471C18.518 17.5971 19.233 17.1791 20.025 16.8931C20.839 16.5851 21.752 16.4311 22.764 16.4311C24.018 16.4311 25.107 16.6731 26.031 17.1571C26.977 17.6411 27.703 18.3011 28.209 19.1371C28.737 19.9511 29.001 20.8641 29.001 21.8761C29.001 22.6901 28.891 23.3941 28.671 23.9881C28.451 24.5601 28.165 25.0551 27.813 25.4731C27.461 25.8691 27.087 26.2321 26.691 26.5621C26.317 26.8921 25.954 27.2331 25.602 27.5851C25.272 27.9151 24.997 28.2891 24.777 28.7071C24.557 29.1031 24.447 29.5981 24.447 30.1921V31.8091H21.213V30.1921ZM22.896 38.9041C22.192 38.9041 21.598 38.6621 21.114 38.1781C20.63 37.6941 20.388 37.1111 20.388 36.4291C20.388 35.7471 20.63 35.1641 21.114 34.6801C21.598 34.1961 22.192 33.9541 22.896 33.9541C23.578 33.9541 24.161 34.1961 24.645 34.6801C25.129 35.1641 25.371 35.7471 25.371 36.4291C25.371 37.1111 25.129 37.6941 24.645 38.1781C24.161 38.6621 23.578 38.9041 22.896 38.9041Z" fill="#F15A22" />
+			</svg>
+			<p class="info__btn-txt">RULES</p>
+			<svg class='svg-icon' style="width:auto; height:100px;"  xmlns="http://www.w3.org/2000/svg" viewBox="0 0 106.8 99.5">
+				<g>
+					<path d="M106.1,58.8a49.2,49.2,0,0,0-69.5-53L0,0S14.3,14.3,9.2,41.7s15.7,55,43.6,57.5C78.3,102,101.8,83.4,106.1,58.8Z" style="fill: #5ab99b" />
+					<g>
+						<path d="M52.1,73.9a28,28,0,0,1-6.2-3.2A21.7,21.7,0,0,1,71.8,35.9l1.2,1" style="fill: none;stroke: #fff;stroke-miterlimit: 9.97795343399048;stroke-width: 7.098689180321879px" />
+						<polygon points="82.3 28 61.3 43.2 79.4 46.1 82.3 28" style="fill: #fff" />
+					</g>
+				</g>
+			</svg>
+			<p class="info__btn-txt">REFRESH<span class="info__description">Restart all the scores. Attention, it’s not undoable</p>
+			<svg class='svg-icon' style="width:auto; height:120px;" xmlns="http://www.w3.org/2000/svg" viewBox="0 0 100 100">
+				<g>
+					<g>
+						<path d="M53.6,92.5a31.5,31.5,0,0,1-4.4-.3A42.1,42.1,0,0,1,11.8,42.9c3.1-17-1.5-28.7-5.3-34.9l28.1,4.4.7-.3A41.9,41.9,0,0,1,53.3,8a46.3,46.3,0,0,1,7.4.7A42.3,42.3,0,0,1,94.9,57.6C91.4,77.5,73.7,92.5,53.6,92.5Z" style="fill: #fff" />
+						<path d="M53.3,10.5a39.3,39.3,0,0,1,6.9.6A39.8,39.8,0,0,1,53.6,90a27.3,27.3,0,0,1-4.1-.3h-.1A39.3,39.3,0,0,1,21.7,74.2a39.9,39.9,0,0,1-7.5-30.8c2.7-14.3,0-25.1-3.2-32.2l22.4,3.6L35,15l1.4-.6a39.5,39.5,0,0,1,16.9-3.9M.9,4.6s13,12.9,8.4,37.9S23.6,92.4,48.9,94.7a37.1,37.1,0,0,0,4.7.3c21.3,0,40.1-16.1,43.7-37A44.7,44.7,0,0,0,61.1,6.2a51.4,51.4,0,0,0-7.8-.7A45.2,45.2,0,0,0,34.2,9.8L.9,4.6Z" style="fill: #5ab99b" />
+					</g>
+					<g>
+						<g>
+							<path d="M54.2,21.8a2.6,2.6,0,0,0-1.3.8h0A1.8,1.8,0,0,0,54.2,21.8Z" style="fill: none" />
+							<path d="M52.6,23.2h0a1.3,1.3,0,0,0-.1.6,1.9,1.9,0,0,0,1.9,2.1,1.8,1.8,0,0,0,1.6-.5l.2-.3a2.1,2.1,0,0,0-1.3-3.3A2.4,2.4,0,0,1,52.6,23.2Z" style="fill: none" />
+							<path d="M54.5,21.1a1.7,1.7,0,1,0-3,.9l.6.4h.1A2.6,2.6,0,0,1,54.5,21.1Z" style="fill: none" />
+							<path d="M54.2,21.8h0a3.6,3.6,0,0,0,.3-.7h0a2.6,2.6,0,0,0-2.3,1.3h-.1l.8.2h0A2.6,2.6,0,0,1,54.2,21.8Z" style="fill: #5ab99b" />
+							<path d="M57.3,24a2.8,2.8,0,0,0-2.2-2.9h0l-.2.7h0a2.1,2.1,0,0,1,1.3,3.3l-.2.3a1.8,1.8,0,0,1-1.6.5,1.9,1.9,0,0,1-1.9-2.1,1.3,1.3,0,0,1,.1-.6h0l-.7-.2c-.1.2-.1.5-.2.7a2.9,2.9,0,0,0,2.7,3,2.4,2.4,0,0,0,1.6-.5h2.1A2.7,2.7,0,0,1,57.3,24Z" style="fill: #5ab99b" />
+							<path d="M54.2,21.8a1.8,1.8,0,0,1-1.3.8,3.3,3.3,0,0,0-.3.6,2.4,2.4,0,0,0,2.3-1.4h-.7Z" style="fill: #e65014" />
+							<path d="M52.1,22.4l-.6-.4a1.7,1.7,0,1,1,3-.9h.6a2.3,2.3,0,0,0-4.5-1c-.5,1.3-1.3,1.5-1.3,1.5l1.6.5a1.2,1.2,0,0,0,.7.7l.3.2h0C52,22.8,52,22.6,52.1,22.4Z" style="fill: #e65014" />
+							<path d="M52.6,23.2a3.3,3.3,0,0,1,.3-.6l-.8-.2c-.1.2-.1.4-.2.5h0l.7.2Z" style="fill: #e65014" />
+							<path d="M54.5,21.1h0a3.6,3.6,0,0,1-.3.7h.7l.2-.7h-.6Z" style="fill: #5ab99b" />
+						</g>
+						<rect x="40.8" y="38.8" width="25.6" height="44.85" rx="3.4" transform="matrix(1, 0, 0, 1, 0.21, -0.18)" style="fill: #fff;stroke: #5ab99b;stroke-miterlimit: 10;stroke-width: 1.41713431656184px" />
+						<g>
+							<g>
+								<rect x="47.8" y="35.4" width="11.8" height="4.81" transform="translate(15.6 91.4) rotate(-89.8)" style="fill: #5ab99b" />
+								<path d="M51.7,32.4h3.9V43.3H51.7V32.4m-.9-.9V44.2h5.7V31.5H50.8Z" style="fill: #fff" />
+							</g>
+							<polygon points="60.9 42.3 46.5 42 53.6 49.3 60.9 42.3" style="fill: #5ab99b" />
+						</g>
+						<rect x="47.8" y="17.2" width="11.9" height="11.91" rx="3.4" transform="translate(0.1 -0.2) rotate(0.2)" style="fill: none;stroke: #5ab99b;stroke-miterlimit: 10;stroke-width: 0.987306257631581px" />
+						<g>
+							<rect x="44.8" y="68.5" width="4.7" height="4.67" rx="1.3" transform="translate(0.2 -0.2) rotate(0.2)" style="fill: #5ab99b" />
+							<rect x="51.2" y="68.5" width="4.7" height="4.67" rx="1.3" transform="translate(0.2 -0.2) rotate(0.2)" style="fill: #5ab99b" />
+							<rect x="57.7" y="68.5" width="4.7" height="4.67" rx="1.3" transform="translate(0.2 -0.2) rotate(0.2)" style="fill: #5ab99b" />
+							<rect x="44.8" y="61.5" width="4.7" height="4.67" rx="1.3" transform="translate(0.2 -0.2) rotate(0.2)" style="fill: #5ab99b" />
+							<rect x="51.3" y="61.5" width="4.7" height="4.67" rx="1.3" transform="translate(0.2 -0.2) rotate(0.2)" style="fill: #5ab99b" />
+							<rect x="57.7" y="61.5" width="4.7" height="4.67" rx="1.3" transform="translate(0.2 -0.2) rotate(0.2)" style="fill: #5ab99b" />
+							<rect x="44.9" y="54.5" width="4.7" height="4.67" rx="1.3" transform="translate(0.2 -0.2) rotate(0.2)" style="fill: #5ab99b" />
+							<rect x="51.3" y="54.5" width="4.7" height="4.67" rx="1.3" transform="matrix(1, 0, 0, 1, 0.19, -0.18)" style="fill: none;stroke: #5ab99b;stroke-miterlimit: 10;stroke-width: 0.787153363227844px" />
+						</g>
+						<g>
+							<circle cx="53.8" cy="78.9" r="1.4" style="fill: none;stroke: #5ab99b;stroke-miterlimit: 10;stroke-width: 0.472378105520613px" />
+							<rect x="46" y="77.8" width="2.1" height="2.15" transform="translate(0.3 -0.2) rotate(0.2)" style="fill: none;stroke: #5ab99b;stroke-miterlimit: 10;stroke-width: 0.472378105520613px" />
+							<polygon points="61.1 80.2 59.2 78.9 61.1 77.6 61.1 80.2" style="fill: none;stroke: #5ab99b;stroke-miterlimit: 10;stroke-width: 0.472378105520613px" />
+						</g>
+					</g>
+				</g>
+			</svg>
+			<p class="info__btn-txt">INSTALL<br>( 2Mb )<br><span class="info__description">Install the App on your phone, computer or other device and play the game offline, anytime!</span></p>
+			<div class="info__game">
+				<p>This App was<br>brought to you by</p>
+				<div class="info__logos">
+					<img src="barra_logos-3x3.png" alt="">
+				</div>
+				<p>and developed by<br>Sugodesign with the<br>collaboration of Steve Mills</p>
+			</div>
+		</div>
+	</country-box>
+</body>
+
+</html>

diff --git a/cc.js b/cc.js
@@ -25,49 +25,56 @@ const translate = {
 		fortune: "Fortune",
 		culture: "Culture",
 		trivia: "Trivia",
-		countries: ["Albania", "Cape verde", "Chechnya", "China", "Egypt", "France", "Germany", "Ghana", "Greece", "Ireland", "Italy", "Poland", "Portugal", "Syria", "Ukraine"]
+		countries: ["Albania", "Cape verde", "Chechnya", "China", "Egypt", "France", "Germany", "Ghana", "Greece", "Ireland", "Italy", "Poland", "Portugal", "Syria", "Ukraine"],
+		info:["RULES", "REFRESH", "Restart all the scores. Attention, it’s not undoable", "INSTALL", "Install the App on your phone, computer or other device and play the game offline, anytime!", "This App was<br>brought to you by", "and developed by<br>Sugodesign with the<br>collaboration of Steve Mills"]
 	},
 	pol: {
 		players: "Osoby grające",
 		fortune: "Karta losu",
 		culture: "Karty kultury",
 		trivia: "Karty ciekawostek",
-		countries: ["Albania", "Republika Zielonego Przylądka", "Czeczenia", "Chiny", "Egipt", "Francja", "Niemcy", "Ghana", "Grecja", "Irlandia", "Włochy", "Polska", "Portugalia", "Syria", "Ukraina"]
+		countries: ["Albania", "Republika Zielonego Przylądka", "Czeczenia", "Chiny", "Egipt", "Francja", "Niemcy", "Ghana", "Grecja", "Irlandia", "Włochy", "Polska", "Portugalia", "Syria", "Ukraina"],
+		info:["POL-RULES", "POL-REFRESH", "Restart all the scores. Attention, it’s not undoable", "INSTALL", "Install the App on your phone, computer or other device and play the game offline, anytime!", "This App was<br>brought to you by", "and developed by<br>Sugodesign with the<br>collaboration of Steve Mills"]
 	},
 	ger: {
 		players: "Spieler*innen",
 		fortune: "Glück",
 		culture: "Kultur",
 		trivia: "Wissen",
-		countries: ["Albanien", "Kap Verde", "Tschetschenien", "China", "Ägypten", "Frankreich", "Deutschland", "Ghana", "Griechenland", "Irland", "Italien", "Polen", "Portugal", "Syrien", "Ukraine"]
+		countries: ["Albanien", "Kap Verde", "Tschetschenien", "China", "Ägypten", "Frankreich", "Deutschland", "Ghana", "Griechenland", "Irland", "Italien", "Polen", "Portugal", "Syrien", "Ukraine"],
+		info:["RULES", "REFRESH", "Restart all the scores. Attention, it’s not undoable", "INSTALL", "Install the App on your phone, computer or other device and play the game offline, anytime!", "This App was<br>brought to you by", "and developed by<br>Sugodesign with the<br>collaboration of Steve Mills"]
 	},
 	ita: {
 		players: "Giocatoris",
 		fortune: "Fortuna",
 		culture: "Cultura",
 		trivia: "Curiosità",
-		countries: ["Albania", "Cape verde", "Chechnya", "China", "Egypt", "France", "Germany", "Ghana", "Greece", "Ireland", "Italy", "Poland", "Portugal", "Syria", "Ukraine"]
+		countries: ["Albania", "Cape verde", "Chechnya", "China", "Egypt", "France", "Germany", "Ghana", "Greece", "Ireland", "Italy", "Poland", "Portugal", "Syria", "Ukraine"],
+		info:["RULES", "REFRESH", "Restart all the scores. Attention, it’s not undoable", "INSTALL", "Install the App on your phone, computer or other device and play the game offline, anytime!", "This App was<br>brought to you by", "and developed by<br>Sugodesign with the<br>collaboration of Steve Mills"]
 	},
 	por: {
 		players: "Jogadores",
 		fortune: "Sorte",
 		culture: "Cultura",
 		trivia: "Curiosidades",
-		countries: ["Albânia", "Cabo Verde", "Chechénia", "China", "Egipto", "França", "Alemanha", "Gana", "Grécia", "Irelanda", "Itália", "Polónia", "Portugal", "Síria", "Ucrânia"]
+		countries: ["Albânia", "Cabo Verde", "Chechénia", "China", "Egipto", "França", "Alemanha", "Gana", "Grécia", "Irelanda", "Itália", "Polónia", "Portugal", "Síria", "Ucrânia"],
+		info:["RULES", "REFRESH", "Restart all the scores. Attention, it’s not undoable", "INSTALL", "Install the App on your phone, computer or other device and play the game offline, anytime!", "This App was<br>brought to you by", "and developed by<br>Sugodesign with the<br>collaboration of Steve Mills"]
 	},
 	gre: {
 		players: "ΠΑΙΧΤΕΣ",
 		fortune: "ΤΥΧΗΣ",
 		culture: "ΠΟΛΙΤΙΣΜΟΥ",
 		trivia: "Trivia",
-		countries: ["Αλβανία", "Πράσινο Ακρωτήριο", "Τσετσενία", "Κίνα", "Αίγυπτος", "Γαλλία", "Γερμανία", "Γκάνα", "Ελλάδα", "Ιρλανδία", "Ιταλία", "Πολωνία", "Πορτογαλία", "Συρία", "Ουκρανία"]
+		countries: ["Αλβανία", "Πράσινο Ακρωτήριο", "Τσετσενία", "Κίνα", "Αίγυπτος", "Γαλλία", "Γερμανία", "Γκάνα", "Ελλάδα", "Ιρλανδία", "Ιταλία", "Πολωνία", "Πορτογαλία", "Συρία", "Ουκρανία"],
+		info:["RULES", "REFRESH", "Restart all the scores. Attention, it’s not undoable", "INSTALL", "Install the App on your phone, computer or other device and play the game offline, anytime!", "This App was<br>brought to you by", "and developed by<br>Sugodesign with the<br>collaboration of Steve Mills"]
 	},
 	ukr: {
 		players: "Граче",
 		fortune: "Карта фортуни",
 		culture: "Карти культури",
 		trivia: "Цікавий факт",
-		countries: ["Албанія", " Кабо-Верде", "Чечня", "Китай", "Єгипет", "Франція", "Німеччи", "Гана", "Греція", "Ірланді", "Італія", "Польща", "Португалія", "Сирія", "Україна"]
+		countries: ["Албанія", " Кабо-Верде", "Чечня", "Китай", "Єгипет", "Франція", "Німеччи", "Гана", "Греція", "Ірланді", "Італія", "Польща", "Португалія", "Сирія", "Україна"],
+		info:["RULES", "REFRESH", "Restart all the scores. Attention, it’s not undoable", "INSTALL", "Install the App on your phone, computer or other device and play the game offline, anytime!", "This App was<br>brought to you by", "and developed by<br>Sugodesign with the<br>collaboration of Steve Mills"]
 	}
 
 }

diff --git a/layouts.css b/layouts.css
@@ -815,6 +815,57 @@ img {
 	margin: 3rem 0 4rem;
 }
 
+.info {
+	width: 23rem;
+	margin: auto;
+	display: flex;
+	flex-direction: column;
+	align-items: center;
+	color: var(--color-bkg);
+}
+
+.info .info__btn-txt {
+	color: var(--color-green);
+	font-size: 1.8rem;
+}
+
+.info p {
+	text-align: center;
+	margin: 0 0 4rem;
+	font-size: 1.5rem;
+}
+
+.info__logos {
+	margin: -3rem 0 2rem;
+	font-size: .8rem;
+}
+
+.info__description {
+	display: block;
+	line-height: 120%;
+	font-size: 1.5rem;
+	width: 25ch;
+	text-align: center;
+	margin: .5rem 0 0;
+}
+
+.info__game {
+	background-color: #59ba9d;
+	padding: 2rem 0;
+}
+
+.info .svg-icon {
+	padding: .5rem 0;
+}
+
+.info .svg-icon:hover {
+	background-color: var(--color-red);
+	padding: .5rem;
+	border-radius: 20%;
+}
+
+
+
 /*****    DICE   *****/
 /* Off for now */
 
